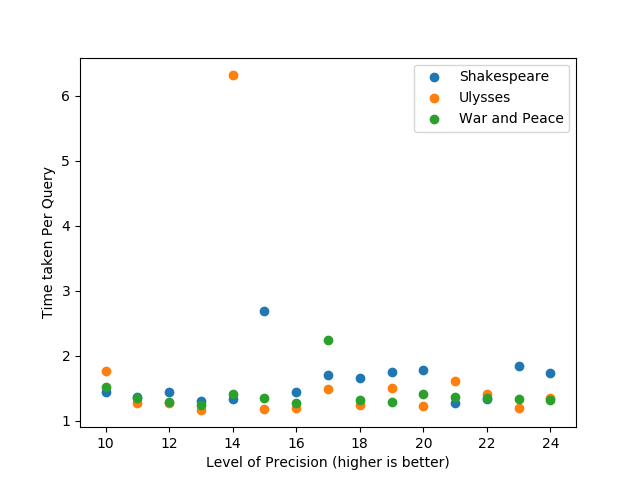
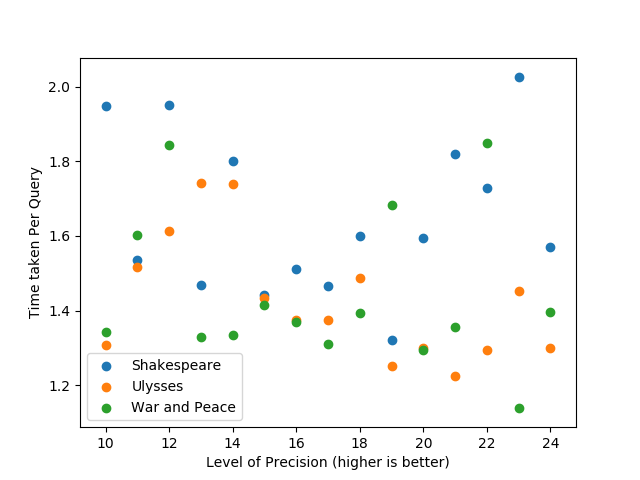
cleaned up code a bit, added a few comments

diff --git a/bigquery/bigquery-queries-detailed.py b/bigquery/bigquery-queries-detailed.py
@@ -29,6 +29,11 @@ EXACT_QUERY_TEMPLATE = 'SELECT COUNT(DISTINCT string_field_0) as exact_count  \
         WHERE RAND() < 2 '
 APPROX_QUERY_TEMPLATE = 'SELECT HLL_COUNT.EXTRACT(HLL_COUNT.INIT(string_field_0, %d))\
             as approx_count FROM cs166.%s WHERE RAND() < 2  '
+
+
+def calc_pct_diff(approx_count, exact_count):
+    return round(((approx_count - exact_count) / exact_count) * 100, 2)
+
 print('############################## WAR AND PEACE #################################')
 
 # Exact Count.
@@ -57,15 +62,13 @@ for precision in trange(10, 25):
     query_job = client.query(QUERY)  # API request
     rows = query_job.result()  # Waits for query to finish
 
-    for row in rows:
-        
-        pct_diff = round((((row.get('approx_count')) - exact_count) / exact_count) * 100, 2)
+    for row in rows:        
+        pct_diff = calc_pct_diff(row.get('approx_count'), exact_count)
         pct_diff_war_and_peace.append(pct_diff)        
         hll_estimate_war_and_peace.append(row.get('approx_count'))        
         if verbose:
             print("approx count with precision level, %d" % i, row.get('approx_count'))
-            print("%% difference with precision level, %d" % i, pct_diff)
-        
+            print("%% difference with precision level, %d" % i, pct_diff)        
         time_taken = time.perf_counter() - start
         time_war_and_peace.append(time_taken)
         
@@ -82,7 +85,6 @@ client = bigquery.Client()
 QUERY = (EXACT_QUERY_TEMPLATE % 'shakespeare')        
 query_job = client.query(QUERY)  # API request
 rows = query_job.result()  # Waits for query to finish
-
 for row in rows:
     print("exact count", row.get('exact_count'))
     exact_count = row.get('exact_count')
@@ -92,30 +94,19 @@ print("Time taken to compute exact count for Shakespeare", time_taken)
 
 # Approximate Count.
 
-for precision in trange(10, 25):
-    
+for i in trange(10, 25):
     start = time.perf_counter()
-
-    i = precision
-    
-    QUERY = (
-        'SELECT HLL_COUNT.EXTRACT(HLL_COUNT.INIT(string_field_0, %d))\
-            as approx_count FROM cs166.shakespeare WHERE RAND() < 2  ' % i) 
-    
-    client = bigquery.Client()
+    QUERY = (APPROX_QUERY_TEMPLATE % (i, 'shakespeare'))
+    client = bigquery.Client() #for fair and consistent timing purposes
     query_job = client.query(QUERY)  # API request
     rows = query_job.result()  # Waits for query to finish
-    
-    for row in rows:
-        
-        pct_diff = round(((row.get('approx_count') - exact_count) / exact_count) * 100, 2)
+    for row in rows:        
+        pct_diff = calc_pct_diff(row.get('approx_count'), exact_count)
         pct_diff_shakespeare.append(pct_diff)                
         hll_estimate_shakespeare.append(row.get('approx_count'))      
-
         if verbose:  
             print("approx count with precision level, %d" % i, row.get('approx_count'))
             print("%% difference with precision level, %d" % i, pct_diff)
-
         time_taken = time.perf_counter() - start
         time_shakespeare.append(time_taken)
         if verbose:
@@ -125,42 +116,31 @@ print('############################## ULYSSES #################################'
 
 # Exact Count.
 start = time.perf_counter()
-
 QUERY = (EXACT_QUERY_TEMPLATE % 'ulysses')        
 client = bigquery.Client()
 query_job = client.query(QUERY)  # API request
 rows = query_job.result()  # Waits for query to finish
-
 for row in rows:
     print("exact count", row.get('exact_count'))
     exact_count = row.get('exact_count')
-
 time_taken = time.perf_counter() - start
 print("Time taken to compute exact count for Ulysses", time_taken)
 
 # Approximate Count.
 
-for precision in trange(10, 25):
+for i in trange(10, 25):
     start = time.perf_counter()
-
-    i = precision
-
-    QUERY = (
-        'SELECT HLL_COUNT.EXTRACT(HLL_COUNT.INIT(string_field_0, %d))\
-            as approx_count FROM cs166.ulysses WHERE RAND() < 2  ' % i) 
-
-    client = bigquery.Client()
+    QUERY = (APPROX_QUERY_TEMPLATE % (i, 'ulysses'))
+    client = bigquery.Client() #repeating for timing purposes
     query_job = client.query(QUERY)  # API request
     rows = query_job.result()  # Waits for query to finish
-    
     for row in rows:        
-        pct_diff = round((((row.get('approx_count')) - exact_count) / exact_count) * 100, 2)
+        pct_diff = calc_pct_diff(row.get('approx_count'), exact_count)
         pct_diff_ulysses.append(pct_diff)                
         hll_estimate_ulysses.append(row.get('approx_count'))
         if verbose:
             print("approx count with precision level, %d" % i, row.get('approx_count'))
             print("%% difference with precision level, %d" % i, pct_diff)
-        
         time_taken = time.perf_counter() - start
         time_ulysses.append(time_taken)
         if verbose:
